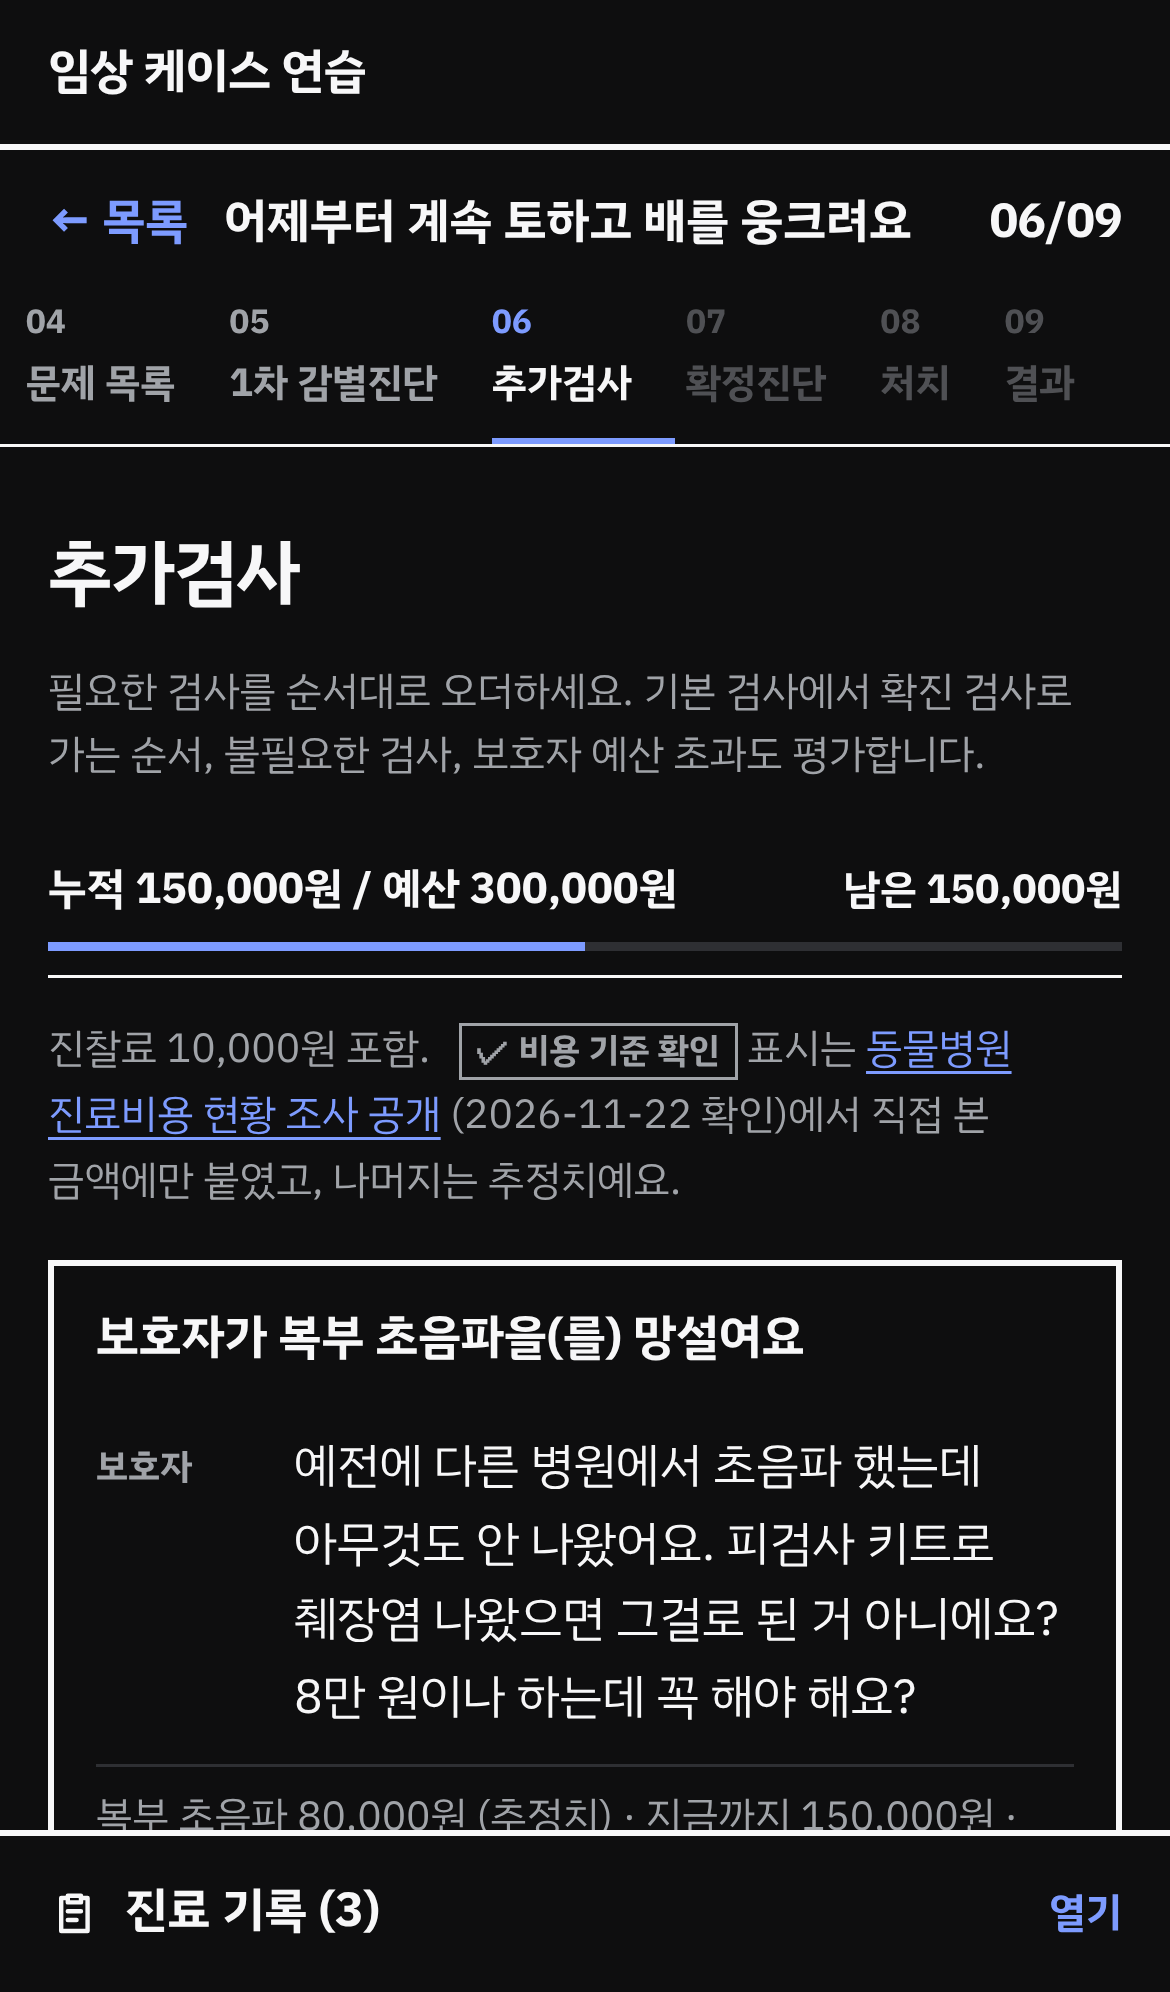
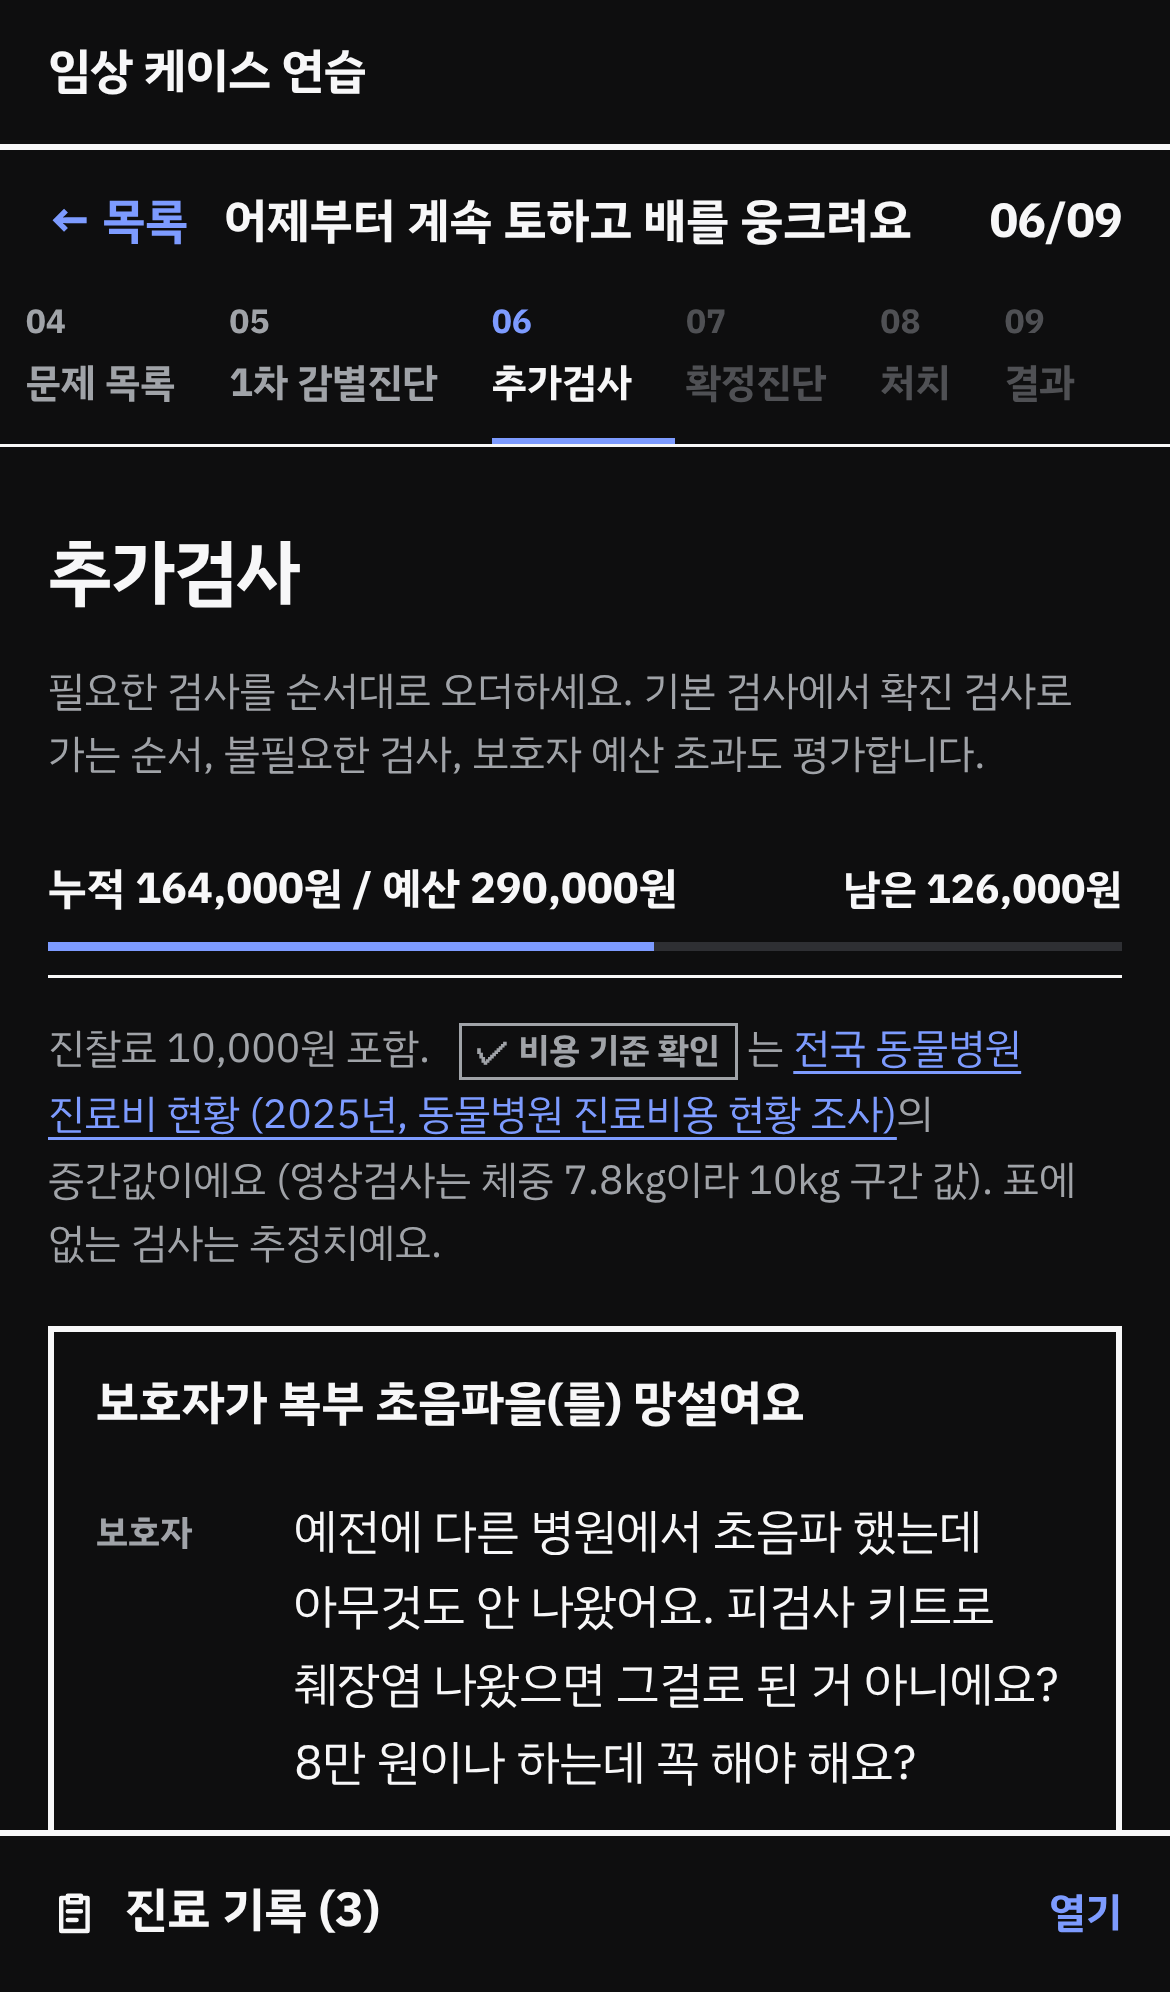
Use the 2025 national median fee table for consult, blood work and imaging (weight-tiered)
Claude-Session: https://claude.ai/code/session_01BJhsBhzCbaadovLPJsmbcm

diff --git a/web/app.js b/web/app.js
@@ -66,7 +66,7 @@ async function boot() {
     fetch('data/cases/index.json').then(r => r.json()),
     fetch('data/fees.json').then(r => r.json()).catch(() => null), // 없으면 모든 비용이 추정치
   ]);
-  E.applyFees(catalog, fees);
+  catalog.feesRaw = fees;
   window.addEventListener('hashchange', route);
   route();
 }
@@ -77,6 +77,7 @@ async function route() {
   if (!id || !index.some(c => c.id === id)) { C = null; return renderHome(); }
   if (!C || C.id !== id) {
     C = await fetch(`data/cases/${id}.json`).then(r => r.json());
+    E.applyFees(catalog, catalog.feesRaw, E.weightOf(C)); // 체중별 가격
     S = { ...E.newState(), ...store.get('ec2-state-' + id, {}) };
     view = S.step;
   }
@@ -289,7 +290,7 @@ function costBar() {
 function feeSource() {
   const f = F();
   return h('p', { class: 'muted small' }, f
-    ? [`진찰료 ${E.fmtWon(E.consultFee(catalog))} 포함. `, consultBadge(), ` 표시는 `, h('a', { href: f.source.url, target: '_blank', rel: 'noopener' }, f.source.name), ` (${f.source.accessed} 확인)에서 직접 본 금액에만 붙였고, 나머지는 추정치예요.`]
+    ? [`진찰료 ${E.fmtWon(E.consultFee(catalog))} 포함. `, consultBadge(), ` 는 `, h('a', { href: f.source.url, target: '_blank', rel: 'noopener' }, f.source.name), `의 ${f.source.stat}이에요${E.weightOf(C) ? ` (영상검사는 체중 ${E.weightOf(C)}kg이라 ${E.tierOf(E.weightOf(C))}kg 구간 값)` : ''}. 표에 없는 검사는 추정치예요.`]
     : '비용 기준 파일을 불러오지 못해 모든 금액이 추정치예요.');
 }
 

diff --git a/web/engine.js b/web/engine.js
@@ -32,12 +32,17 @@ export function examOf(catalog, c, id) {
 }
 
 // ---------- 비용 ----------
-// fees.json 을 검사 메뉴에 합친다: 공시 사이트에서 확인한 금액만 verified, 나머지는 catalog 의 추정치.
-export function applyFees(catalog, fees) {
+// fees.json 을 검사 메뉴에 합친다: 표에서 옮긴 금액만 verified, 나머지는 catalog 의 추정치.
+// kg(환자 체중)를 주면 체중별 중간값을 쓴다. 케이스를 열 때마다 다시 부른다.
+export const weightOf = c => parseFloat(c?.signalment?.['체중']) || null;
+export const tierOf = kg => (kg == null ? null : kg <= 7.5 ? 5 : kg <= 15 ? 10 : 20);
+export function applyFees(catalog, fees, kg = null) {
+  const tier = tierOf(kg);
   for (const t of catalog.tests) {
+    t.estimate ??= t.cost; // catalog 원래 값
     const f = fees?.tests?.[t.id];
     t.verified = f?.cost != null;
-    if (t.verified) t.cost = f.cost;
+    t.cost = t.verified ? (tier && f.kg?.[tier]) || f.cost : t.estimate;
   }
   catalog.fees = fees || null;
   return catalog;

diff --git a/README.md b/README.md
@@ -13,7 +13,7 @@ node web/test/check.mjs                   # 케이스 데이터 검사 + 채점 
 
 ### 파일
 - `web/data/catalog.json` — 모든 케이스가 공유하는 질문·신체검사·검사 메뉴(비용, 소요 시간, 개/고양이 정상값과 참고범위)
-- `web/data/fees.json` — 진료비 기준. 출처([동물병원 진료비용 현황 조사 공개](https://animalclinicfee.or.kr/info/payInfo.do))와 확인 날짜, 사이트에서 **직접 확인한 금액만** 적습니다(앱에 "✓ 비용 기준 확인"으로 표시). 적지 않은 검사는 `catalog.json` 의 cost 를 "추정치"로 씁니다. 보호자 예산은 케이스의 `budget`, 없으면 진찰료+필수 검사 비용의 1.3배(만 원 단위 올림)이고, 넘으면 '비용·예산' 점수가 깎입니다.
+- `web/data/fees.json` — 진료비 기준: 전국 동물병원 진료비 현황(2025년, [동물병원 진료비용 현황 조사](https://animalclinicfee.or.kr/info/payInfo.do))의 **중간값**. 진찰료, CBC, 혈액화학, 전해질, 방사선, 초음파, CT 가 여기서 온 값이고(앱에 "✓ 비용 기준 확인"), 영상검사는 환자 체중 구간(5/10/20kg)별 값을 씁니다. 표에 없는 검사는 `catalog.json` 의 cost 를 "추정치"로 씁니다. 보호자 예산은 케이스의 `budget`, 없으면 진찰료+필수 검사 비용의 1.3배(만 원 단위 올림)이고, 넘으면 '비용·예산' 점수가 깎입니다.
 - `web/data/cases/<id>.json` — 케이스. 공통 메뉴와 **다른 것만** 적습니다. 적지 않은 검사는 정상 결과가 나오고, 수치는 참고범위로 H/L 이 자동 표시됩니다.
 - `web/engine.js` — 데이터 해석과 채점, `web/app.js` — 화면, `web/ai.js`·`web/config.js` — AI 서버 호출
 
